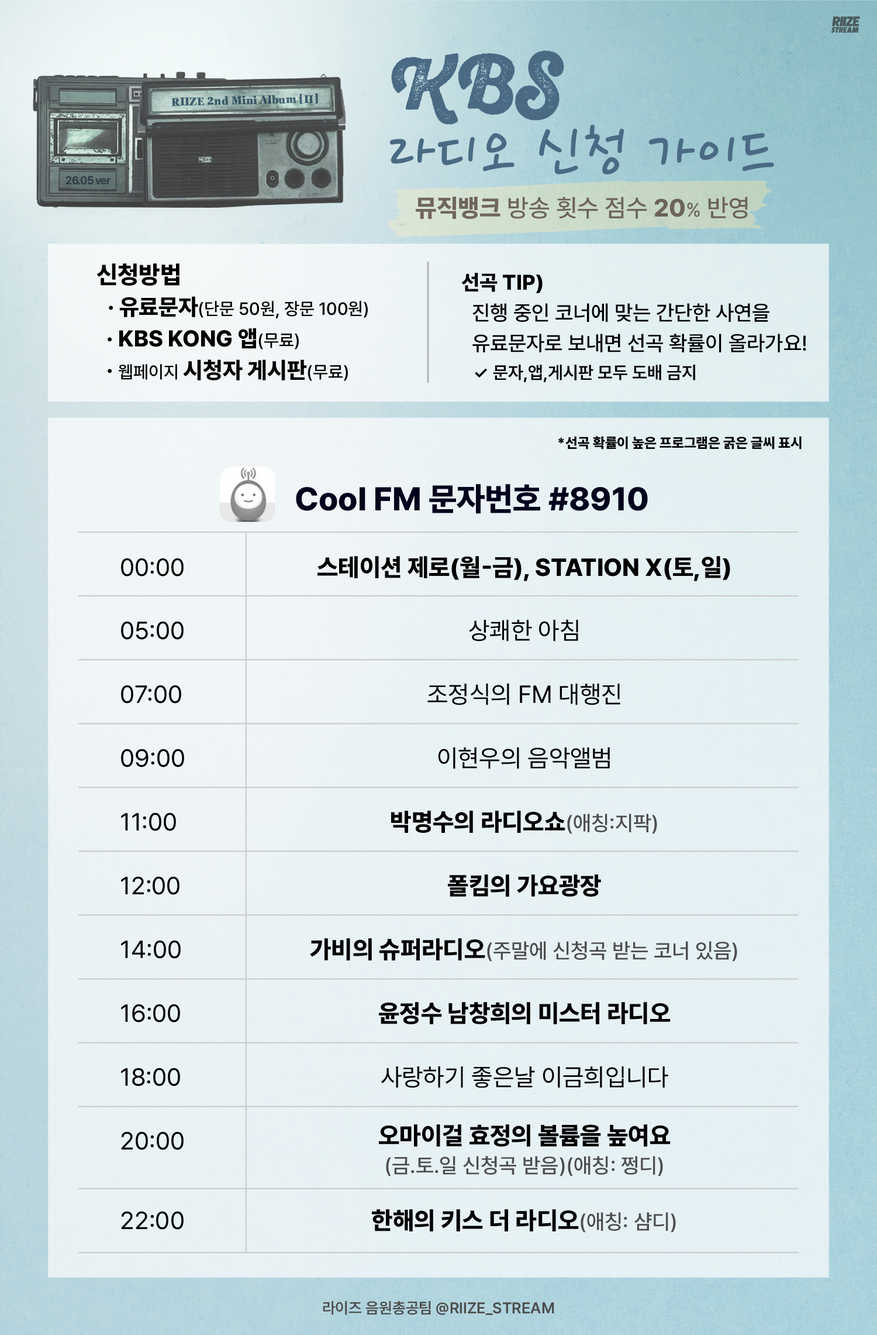
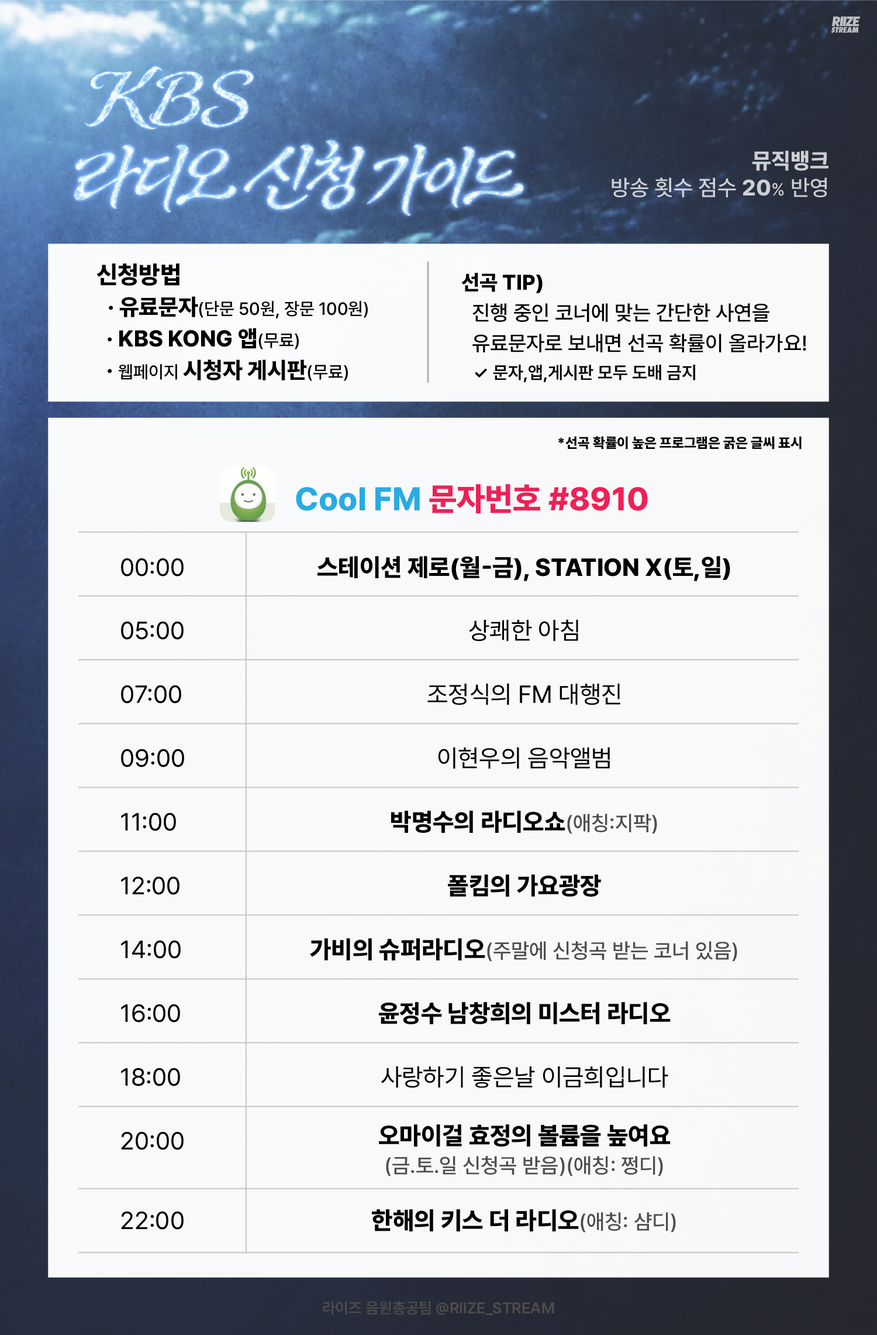
라디오 신청 가이드 수정

diff --git a/app/lib/constants/guideContent.constants.ts b/app/lib/constants/guideContent.constants.ts
@@ -171,7 +171,7 @@ export const MUSIC_ID_CREATE_GUIDE: CommonContentProps = {
 
 export const RADIO_APPLICATION_GUIDE: CommonContentProps = {
   label: TITLE.RADIO_APPLICATION,
-  updateDate: '2026.06',
+  updateDate: '2026.10',
   uniqueId: 'radioApplication',
   content: [
     {
